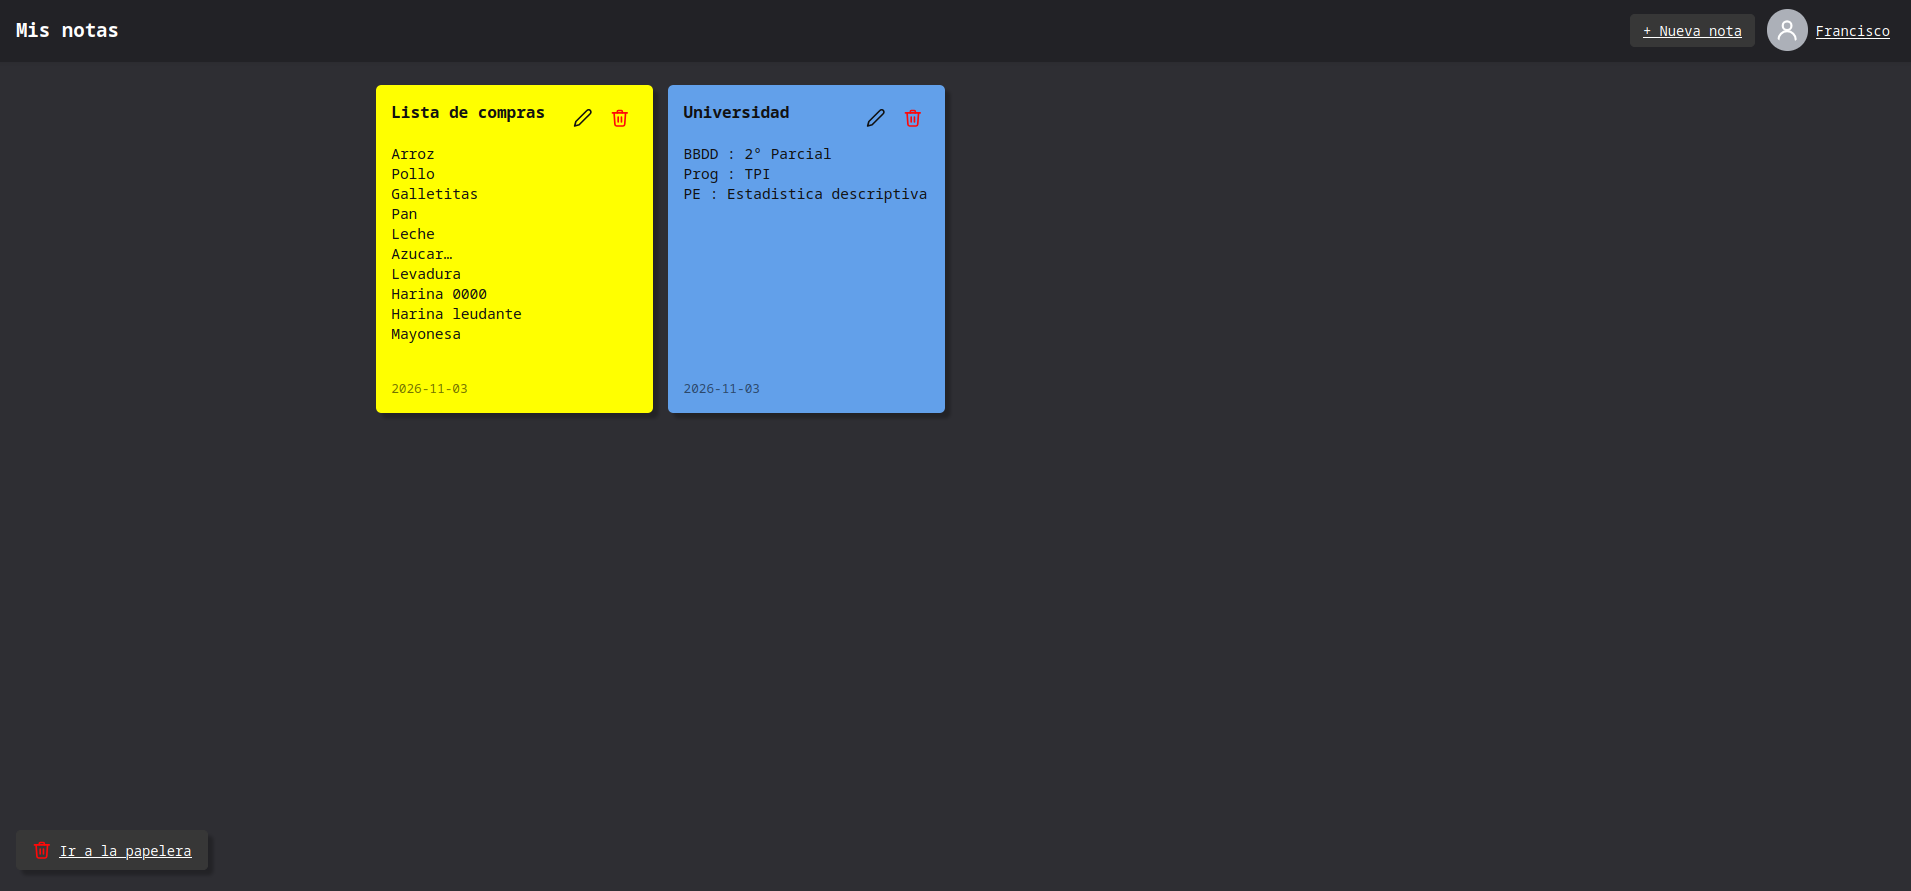
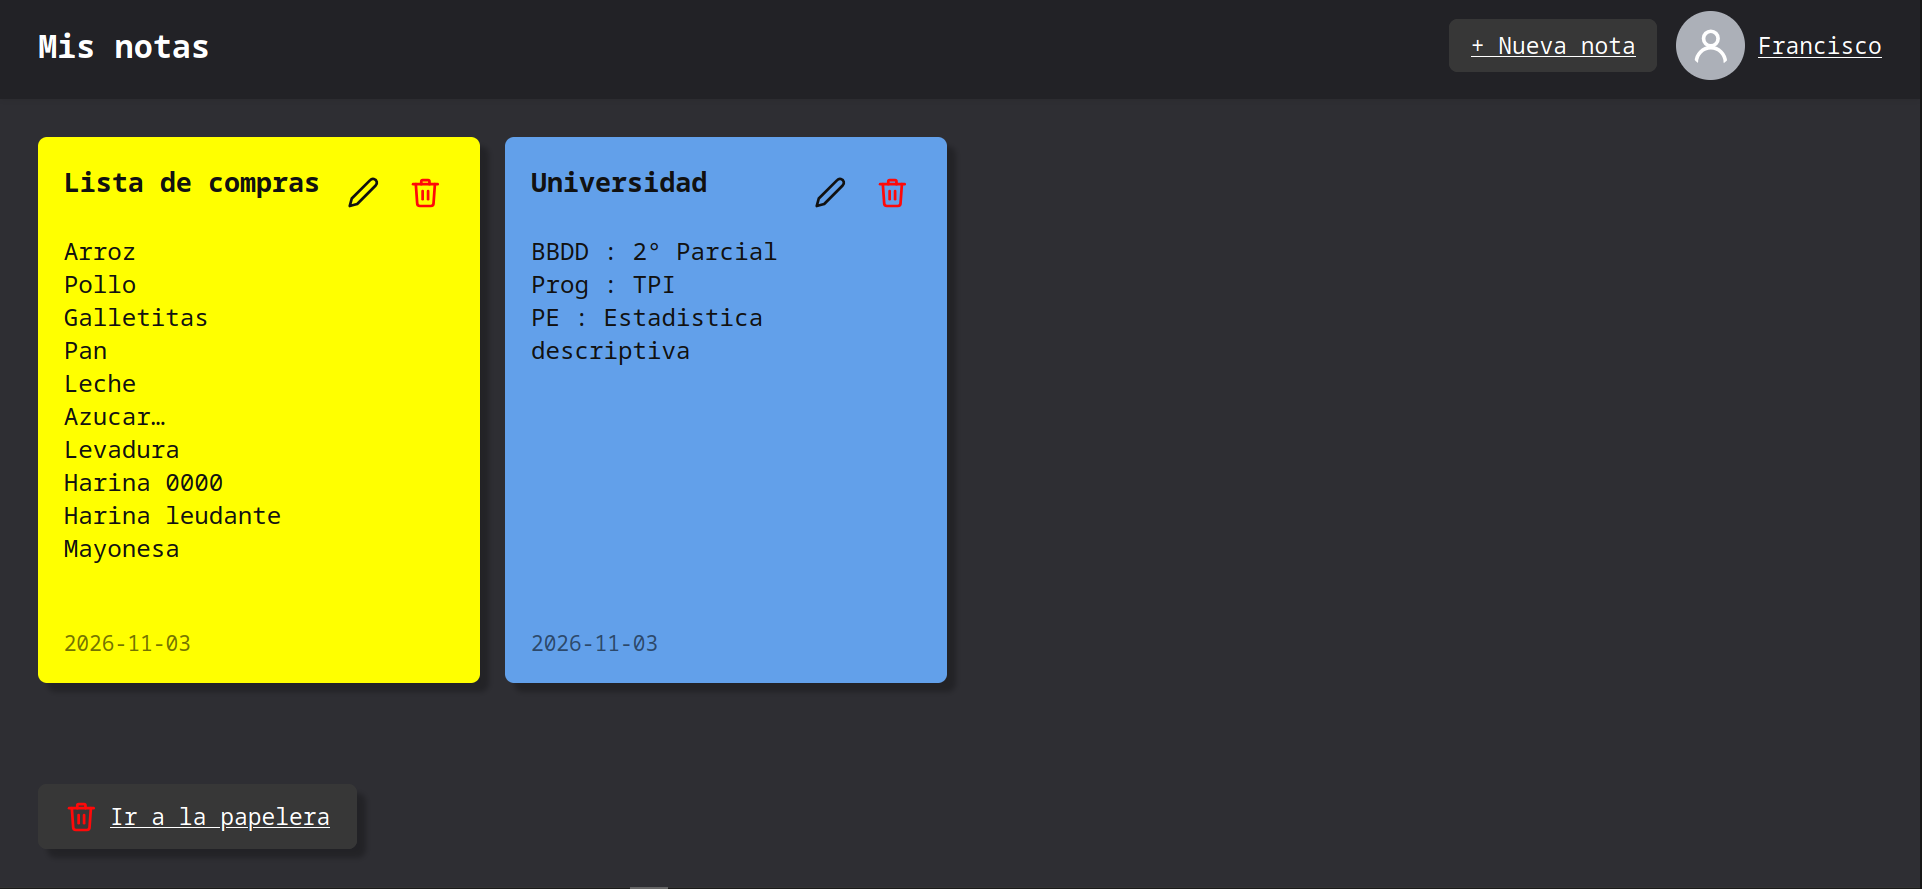
Agrego soporte a SSL

diff --git a/src/main/resources/templates/user/update.html b/src/main/resources/templates/user/update.html
@@ -6,22 +6,24 @@
   <body>
     <h1>Editar usuario</h1>
 
-    <form action="#" th:action="@{/users/update}" th:object="${appUser}" method="post">
-      <input type="hidden" th:field="*{email}" th:value="*{email}">
-      <input type="hidden" th:field="*{password}" th:value="*{password}">
-      <input type="hidden" th:field="*{date}" th:value="*{date}">
+    <form action="#" th:action="@{/users/update}" th:object="${usernameDTO}" method="post">
       <table>
         <tr>
           <td><input type="text" th:field="*{username}" placeholder="Usuario"></td>
           <td th:if="${#fields.hasErrors('username')}" th:errors="*{username}"></td>
         </tr>
         <tr>
-          <td><input type="submit" value="Guardar cambios"/></td>
+          <td><input type="submit" value="Cambiar"/></td>
         </tr>
       </table>
     </form>
+    <a th:href="@{/users/change-password}">Cambiar email</a>
+    <span th:text="${message}"></span>
+    <br>
+    <a th:href="@{/users/change-password}">Cambiar contraseña</a>
+    <br>
     <form action="#" th:action="@{/menu}" method="get">
-      <input type="submit" value="Cancelar"/>
+      <input type="submit" value="Volver"/>
     </form>
     <form action="#" th:action="@{/logout}" method="get">
       <input type="submit" value="Salir de la cuenta"/>

diff --git a/src/main/resources/templates/user/change-password-form.html b/src/main/resources/templates/user/change-password-form.html
@@ -11,7 +11,7 @@
     </span>
 
     <span th:if="${!hasError}">
-      <form action="#" th:action="@{/users/recover/{token}(token=${token})}" th:object="${passwordDTO}" method="post">
+      <form action="#" th:action="@{/users/change-password/{token}(token=${token})}" th:object="${passwordDTO}" method="post">
         <input type="password" th:field="*{password}">
         <span th:if="${#fields.hasErrors('password')}" th:errors="*{password}"></span>
         <br>

diff --git a/src/main/resources/templates/user/change-password.html b/src/main/resources/templates/user/change-password.html
@@ -5,7 +5,7 @@
   </head>
   <body>
     Ingrese el email asociado a la cuenta, se le enviara un mail para cambiar la contraseña.
-    <form action="#" th:action="@{/users/recover}" th:object="${emailDTO}" method="post">
+    <form action="#" th:action="@{/users/change-password}" th:object="${emailDTO}" method="post">
       <input type="email" th:field="*{email}">
       <span th:if="${#fields.hasErrors('email')}" th:errors="*{email}"></span>
       <br>

diff --git a/src/main/resources/templates/login/validation.html b/src/main/resources/templates/login/validation.html
@@ -4,6 +4,8 @@
     <title>Verificar</title>
   </head>
   <body>
-    Verifique su casilla de mail, se le envio un mail con un formulario para verificar el mail.
+    Verifique su casilla de mail, se le envio un correo con un formulario para verificar su email. <br>
+    Hasta que no se verifique no podra usar la cuenta.
+    Dentro de cinco minutos expirara la solicitud.
   </body>
 </html>

diff --git a/src/main/resources/templates/login/login.html b/src/main/resources/templates/login/login.html
@@ -27,7 +27,7 @@
       </form>
 
       <a class="auth-link" th:href="@{/users/new}">Registrarse</a>
-      <a class="auth-link" th:href="@{/users/recover}">Recuperar contraseña</a>
+      <a class="auth-link" th:href="@{/users/change-password}">Recuperar contraseña</a>
     </main>
   </body>
 </html>

diff --git a/src/main/resources/templates/warning/generic-message.html b/src/main/resources/templates/warning/generic-message.html
@@ -1,0 +1,9 @@
+<!DOCTYPE html>
+<html lang="es">
+  <head>
+    <title>Advertencia</title>
+  </head>
+  <body>
+    <h2 th:text="${message}"></h2>
+  </body>
+</html>

diff --git a/src/main/java/com/ratti/noteshub/infraestructure/web/AppUserController.java b/src/main/java/com/ratti/noteshub/infraestructure/web/AppUserController.java
@@ -40,7 +40,7 @@ public class AppUserController {
     if (!(errors.hasErrors() && !(errors.getErrorCount() == 1 && errors.getFieldError().getField().equals("email")))) {
       if (userService.existByUsername(user.getUsername())) {
         errors.addError(new FieldError("appUser", "username", "El usuario ya esta registrado"));
-      } else if (userService.existByEmail(user.getEmail())) {
+      } else if (userService.existByEmail(user.getEmail(), false)) {
         errors.addError(new FieldError("appUser", "email", "El mail ya esta registrado"));
       } else {
         userService.insert(user);
@@ -54,7 +54,7 @@ public class AppUserController {
 
   @GetMapping("/validate/{token}")
   public String validate(@PathVariable String token, Model model) {
-    model.addAttribute("hasError", Boolean.valueOf(userService.validate(token)));
+    model.addAttribute("hasError", Boolean.valueOf(!userService.validate(token)));
     return "user/validation";
   }
 
@@ -63,20 +63,20 @@ public class AppUserController {
   @GetMapping("/update")
   public String update(Model model, Authentication auth) {
     if (auth.isAuthenticated()) {
-      model.addAttribute("appUser", userService.find(auth.getName()));
+      model.addAttribute("usernameDTO", new UsernameDTO(auth.getName()));
       return "user/update";
     }
     return "redirect:/login";
   }
 
   @PostMapping("/update")
-  public String newUser(@Valid AppUser user, BindingResult errors, Authentication auth) {
+  public String newUser(@Valid UsernameDTO user, BindingResult errors, Authentication auth) {
     if (auth.isAuthenticated()) {
       if (!errors.hasErrors()) {
-        if (!user.getUsername().equals(auth.getName()) && userService.existByUsername(user.getUsername())) {
-          errors.addError(new FieldError("appUser", "username", "El usuario ya esta registrado"));
+        if (!user.username.equals(auth.getName()) && userService.existByUsername(user.username)) {
+          errors.addError(new FieldError("usernameDTO", "username", "El usuario ya esta registrado"));
         } else {
-          userService.update(auth.getName(), user);
+          userService.update(auth.getName(), user.username);
           return "redirect:/logout";
         }
       }
@@ -85,24 +85,37 @@ public class AppUserController {
     return "redirect:/login";
   }
 
-  // Cambiar contraseña ------------------------------------------------
-
-  @GetMapping("/recover")
-  public String recover(Model model) {
-    model.addAttribute("emailDTO", new EmailDTO(""));
-    return "user/recover";
+  private record UsernameDTO(
+      @NotNull(message = "Campo requerido") @Length(min = 3, message = "Nombre de usuario muy corto") String username) {
+    public UsernameDTO(String username) {
+      this.username = username;
+    }
   }
 
-  @PostMapping("/recover")
-  public String recover(@Valid EmailDTO email, BindingResult errors) {
-    if (!errors.hasErrors()) {
-      if (userService.existByEmail(email.email)) {
-        userService.recover(email.email);
-        return "redirect:/login";
-      }
-      errors.addError(new FieldError("email", "email", "El email no esta asociado a ninguna cuenta"));
+  // Cambiar contraseña ------------------------------------------------
+
+  @GetMapping("/change-password")
+  public String changePassword(Model model, Authentication auth) {
+    if (auth != null && auth.isAuthenticated()) {
+      userService.createChangePasswordToken(userService.find(auth.getName()).getEmail());
+      model.addAttribute("message", "Se ha enviado un email con un formulario para remplazar la contraseña");
+      return "warning/generic-message";
     }
-    return "user/recover";
+    model.addAttribute("emailDTO", new EmailDTO(""));
+    return "user/change-password";
+  }
+
+  @PostMapping("/change-password")
+  public String changePassword(@Valid EmailDTO email, BindingResult errors, Model model) {
+    if (!errors.hasErrors()) {
+      if (userService.existByEmail(email.email, true)) {
+        userService.createChangePasswordToken(email.email);
+        model.addAttribute("message", "Se ha enviado un email con un formulario para remplazar la contraseña");
+        return "warning/generic-message";
+      }
+      errors.addError(new FieldError("emailDTO", "email", "El email no esta asociado a ninguna cuenta"));
+    }
+    return "user/change-password";
   }
 
   private record EmailDTO(
@@ -112,16 +125,16 @@ public class AppUserController {
     }
   }
 
-  @GetMapping("/recover/{token}")
+  @GetMapping("/change-password/{token}")
   public String changePassword(@PathVariable String token, Model model) {
     model.addAttribute("hasError",
         Boolean.valueOf(!userService.existByTokenAntType(token, NotesHubApplication.TOKEN_CHANGE_PASSWORD)));
     model.addAttribute("passwordDTO", new PasswordDTO("", ""));
     model.addAttribute("token", token);
-    return "user/changePassword";
+    return "user/change-password-form";
   }
 
-  @PostMapping("/recover/{token}")
+  @PostMapping("/change-password/{token}")
   public String changePassword(@Valid PasswordDTO password, BindingResult errors,
       @PathVariable String token,
       Model model, Authentication auth) {
@@ -132,18 +145,17 @@ public class AppUserController {
       if (!errors.hasErrors()) {
         if (password.password.equals(password.repeatedPassword)) {
           userService.changePassword(token, password.password);
-          if (auth.isAuthenticated()) {
+          if (auth != null && auth.isAuthenticated()) {
             return "redirect:/menu";
           }
           return "redirect:/login";
         }
         errors.addError(new FieldError("passwordDTO", "repeatedPassword", "Las contraseñas no coinciden"));
       }
-      System.out.println(errors.getAllErrors());
     } else {
       model.addAttribute("hasError", true);
     }
-    return "user/changePassword";
+    return "user/change-password-form";
   }
 
   private record PasswordDTO(

diff --git a/src/main/java/com/ratti/noteshub/application/service/AppUserService.java b/src/main/java/com/ratti/noteshub/application/service/AppUserService.java
@@ -64,11 +64,15 @@ public class AppUserService implements UserDetailsService {
     return userRepo.findByUsername(username).isPresent();
   }
 
-  public boolean existByEmail(String email) {
+  public boolean existByEmail(String email, boolean checkIfHaveToken) {
     Optional<AppUser> userOptional = userRepo.findByEmail(email);
     if (userOptional.isPresent()) {
-      AppUser user = userOptional.get();
-      if (!tokenRepo.findByUserIdAndType(user.getId(), NotesHubApplication.TOKEN_VALIDATE).isPresent()) {
+      if (checkIfHaveToken) {
+        AppUser user = userOptional.get();
+        if (!tokenRepo.findByUserIdAndType(user.getId(), NotesHubApplication.TOKEN_VALIDATE).isPresent()) {
+          return true;
+        }
+      } else {
         return true;
       }
     }
@@ -112,8 +116,9 @@ public class AppUserService implements UserDetailsService {
         .build());
   }
 
-  public void update(String username, AppUser user) {
-    user.setId(find(username).getId());
+  public void update(String username, String newUsername) {
+    AppUser user = find(username);
+    user.setUsername(newUsername);
     userRepo.save(user);
   }
 
@@ -141,18 +146,26 @@ public class AppUserService implements UserDetailsService {
     return false;
   }
 
-  public void recover(String email) {
+  public void createChangePasswordToken(String email) {
     AppUser user = userRepo.findByEmail(email).orElseThrow(() -> new UsernameNotFoundException(email));
 
     String token = UUID.randomUUID().toString();
-    mailManager.sendRecoverEmail(email, token);
+    mailManager.sendChangePasswordEmail(email, token);
 
-    tokenRepo.save(UserTokens.builder()
-        .token(token)
-        .date(LocalDateTime.now())
-        .type(NotesHubApplication.TOKEN_CHANGE_PASSWORD)
-        .user(user)
-        .build());
+    Optional<UserTokens> optional = tokenRepo.findByUserIdAndType(user.getId(),
+        NotesHubApplication.TOKEN_CHANGE_PASSWORD);
+    if (optional.isPresent()) {
+      UserTokens userToken = optional.get();
+      userToken.setDate(LocalDateTime.now());
+      tokenRepo.save(userToken);
+    } else {
+      tokenRepo.save(UserTokens.builder()
+          .token(token)
+          .date(LocalDateTime.now())
+          .type(NotesHubApplication.TOKEN_CHANGE_PASSWORD)
+          .user(user)
+          .build());
+    }
   }
 
   public boolean changePassword(String token, String password) {

diff --git a/src/main/java/com/ratti/noteshub/infraestructure/mail/MailManager.java b/src/main/java/com/ratti/noteshub/infraestructure/mail/MailManager.java
@@ -33,7 +33,7 @@ public class MailManager {
       helper.setFrom(from);
       helper.setTo(email);
       helper.setSubject("Verificacion");
-      helper.setText("<a href=" + baseUrl + "/validate/" + token + ">Validar email</a>", true);
+      helper.setText("<a href=" + baseUrl + "/users/validate/" + token + ">Validar email</a>", true);
 
       sender.send(msg);
       logger.info("Mail send to " + email);
@@ -43,14 +43,14 @@ public class MailManager {
   }
 
   @Async
-  public void sendRecoverEmail(String email, String token) {
+  public void sendChangePasswordEmail(String email, String token) {
     try {
       MimeMessage msg = sender.createMimeMessage();
       MimeMessageHelper helper = new MimeMessageHelper(msg, true, "UTF-8");
       helper.setFrom(from);
       helper.setTo(email);
       helper.setSubject("Cambiar contraseña");
-      helper.setText("<a href=" + baseUrl + "/users/recover/" + token + ">Cambiar contraseña</a>", true);
+      helper.setText("<a href=" + baseUrl + "/users/change-password/" + token + ">Cambiar contraseña</a>", true);
 
       sender.send(msg);
       logger.info("Mail send to " + email);

diff --git a/src/main/java/com/ratti/noteshub/domain/entity/UserTokens.java b/src/main/java/com/ratti/noteshub/domain/entity/UserTokens.java
@@ -6,7 +6,7 @@ import jakarta.persistence.Entity;
 import jakarta.persistence.GeneratedValue;
 import jakarta.persistence.GenerationType;
 import jakarta.persistence.Id;
-import jakarta.persistence.OneToOne;
+import jakarta.persistence.ManyToOne;
 import jakarta.persistence.Table;
 import lombok.AllArgsConstructor;
 import lombok.Builder;
@@ -31,6 +31,6 @@ public class UserTokens {
 
   private byte type;
 
-  @OneToOne
+  @ManyToOne
   private AppUser user;
 }

diff --git a/src/main/java/com/ratti/noteshub/domain/config/SecurityConfig.java b/src/main/java/com/ratti/noteshub/domain/config/SecurityConfig.java
@@ -23,7 +23,7 @@ public class SecurityConfig {
     return http
         .authorizeHttpRequests(authorize -> authorize
             .requestMatchers("/login", "/logout", "/error", "/css/**", "/users/new", "/users/validate/**",
-                "/users/recover/**")
+                "/users/change-password/**")
             .permitAll()
             .anyRequest().authenticated())
         .formLogin(form -> form

diff --git a/README.md b/README.md
@@ -1,6 +1,7 @@
 # Notes Hub
 
-Aplicacion web para hacer notas desarrollado en **Spring Boot** con una API REST incluida.
+Aplicacion web para hacer notas desarrollado en **Spring Boot** con soporte para moviles,
+incluye una API REST.
 
 ![vista-previa.png](images/vista-previa.png)
 
@@ -13,8 +14,9 @@ Aplicacion web para hacer notas desarrollado en **Spring Boot** con una API REST
 ## Caracteristicas
 
 Utiliza **Spring Security** para la autenticacion, **Hibernate** para el acceso a una base de
-datos **Maria DB**, **Thymeleaf** para como motor de plantillas y **Spring Mail** para enviar
-emails. <br>
+datos **Maria DB**, **Thymeleaf** como motor de plantillas, **Spring Mail** para enviar emails y
+usa un certificado autofirmado para **SSL**.
+<br>
 _Las paginas html fueron diseñadas con ayuda de la IA._
 
 ## Instalacion
@@ -27,12 +29,12 @@ git clone https://github.com/FranciscoRatti/NotesHub.git
 
 Hay ciertas cosas que debes tener en cuenta antes de ejecutar la aplicacion:
 
-- Debes de tener una base de datos. la aplicacion usa Maria DB como gestor de base de datos, si
-  usas otro debes cambiar el driver de Maria por el de tu gestor en las dependencias en el
-  **pom.xml**, podes buscar el driver en los [repositorios de maven](https://mvnrepository.com/).
+- Debes tener una base de datos relacional. la aplicacion usa Maria DB como gestor de base de
+  datos, si usas otro debes cambiar el driver de Maria por el de tu gestor en las dependencias en
+  el [**pom.xml**](pom.xml), podes buscar el driver en los [repositorios de maven](https://mvnrepository.com/).
 - Chequea el archivo **aplication.properties**, hay algunas propiedades que tenes que cambiar:
   - **app.url** debe coincidir con la url para acceder a la aplicacion, si queres que solo
-    se acceda desde tu red podes remplazarlo por _http://\<ip\>:\<puerto\>_.
+    se acceda desde tu red podes remplazarlo por _https://\<ip\>:8443_.
   - **spring.datasource.\*** para configurar la base de datos.
   - **spring.mail.\*** para configurar a que nombre se envian los emails.
 
